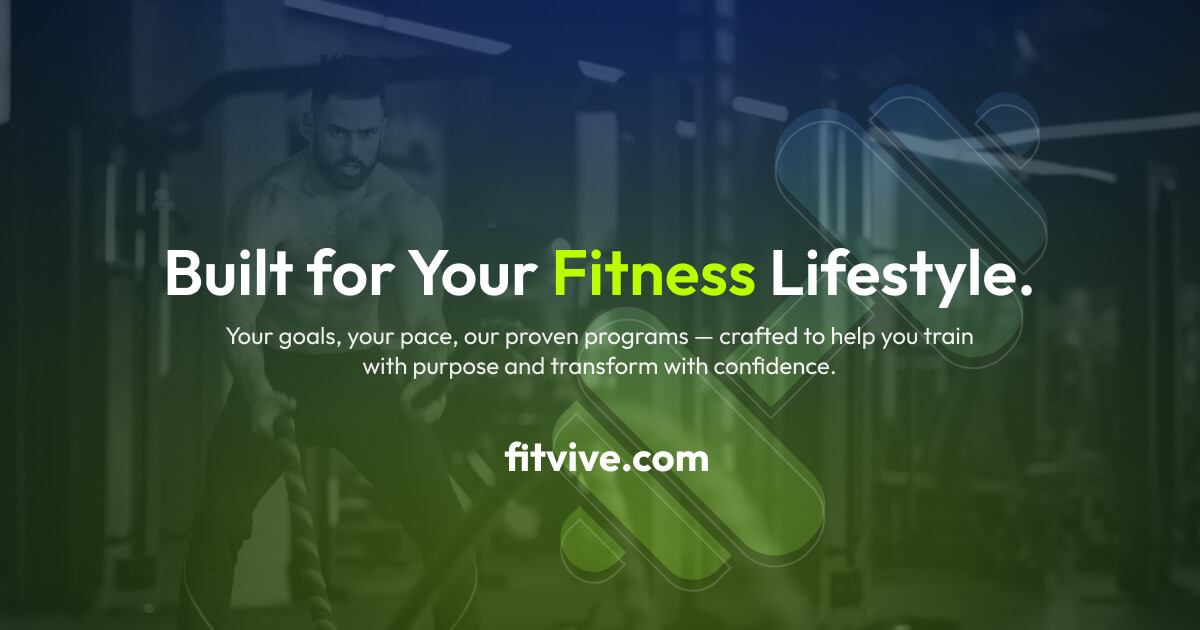
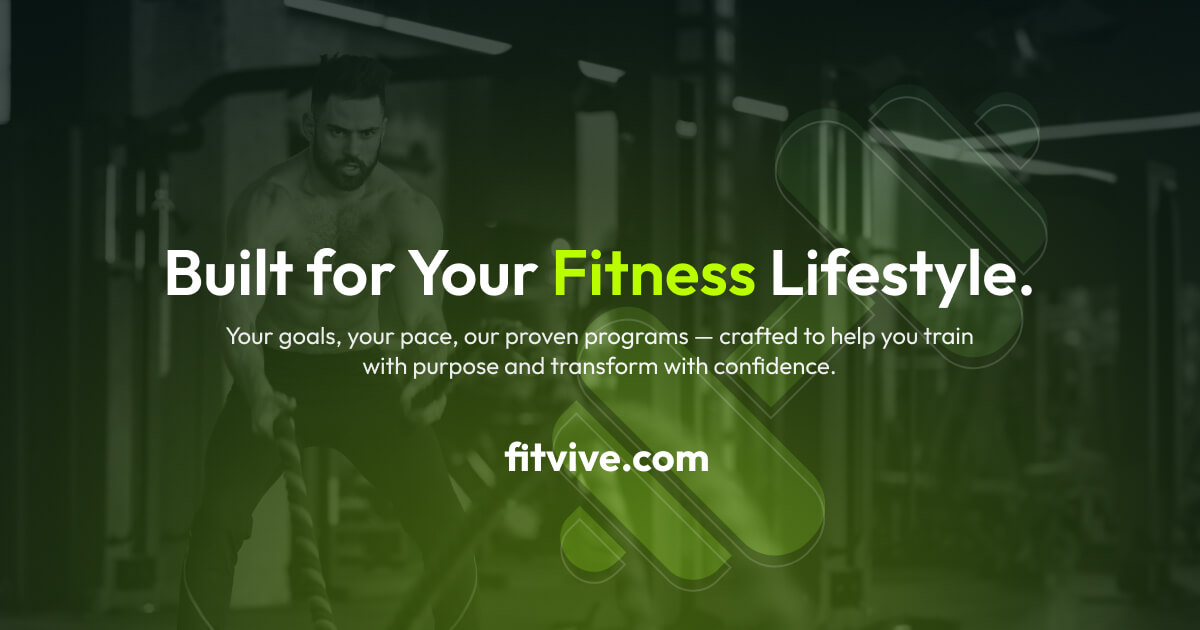
feature: header block - component

diff --git a/nextjs/src/components/main/breadcrumbs-component.tsx b/nextjs/src/components/main/breadcrumbs-component.tsx
@@ -1,0 +1,39 @@
+import { FC, Fragment } from 'react';
+
+import ChipComponent from '@/components/main/chip-component';
+import BreadcrumbsHomeChipComponent from '@/components/parts/breadcrumbs-home-chip-component';
+import BreadcrumbsSeparatorComponent from '@/components/parts/breadcrumbs-separator-componen';
+import { BreadcrumbsComponentProps } from '@/types/props/breadcrumbs-props';
+import { cn } from '@/utils/cn-util';
+import { isLastItem } from '@/utils/is-last-item-util';
+
+import '@/scss/breadcrumbs-component.scss';
+
+const BreadcrumbsComponent: FC<BreadcrumbsComponentProps> = ({
+  className, items, testId
+}) => items.length > 0 && (
+  <div className={cn('breadcrumbs', { additionalClassNames: className })} data-testid={testId}>
+    <BreadcrumbsHomeChipComponent />
+    <BreadcrumbsSeparatorComponent />
+    {
+      items.map(({ content, href }, index) => {
+        const isLast = isLastItem({ index, length: items.length });
+
+        return (
+          <Fragment key={`BreadcrumbsComponent-ChipComponent-${content}-${index}`}>
+            <ChipComponent
+              className={cn('breadcrumbs', { element: 'item' })}
+              color={isLast ? 'default' : 'disabled'}
+              content={content}
+              href={href}
+              size='small'
+            />
+            {!isLast && <BreadcrumbsSeparatorComponent />}
+          </Fragment>
+        );
+      })
+    }
+  </div>
+);
+
+export default BreadcrumbsComponent;

diff --git a/nextjs/src/components/blocks/header-block-component.tsx b/nextjs/src/components/blocks/header-block-component.tsx
@@ -1,0 +1,28 @@
+import { FC } from 'react';
+
+import TypographyComponent from '../main/typography-component';
+
+import BreadcrumbsComponent from '@/components/main/breadcrumbs-component';
+import ContainerComponent from '@/components/main/container-component';
+import { HeaderBlockComponentProps } from '@/types/props/header-block-props';
+import { cn } from '@/utils/cn-util';
+import '@/scss/header-block-component.scss';
+
+const HeaderBlockComponent: FC<HeaderBlockComponentProps> = ({
+  pageTitle
+}) => (
+  <section className={cn('headerBlock')}>
+    <ContainerComponent className={cn('headerBlock', { element: 'container' })}>
+      <TypographyComponent
+        className={cn('headerBlock', { element: 'title' })}
+        variant='h4'
+        weight='semi'
+      >
+        {pageTitle}
+      </TypographyComponent>
+      <BreadcrumbsComponent items={[{ content: pageTitle }]} />
+    </ContainerComponent>
+  </section>
+);
+
+export default HeaderBlockComponent;

diff --git a/nextjs/src/components/main/chip-component.tsx b/nextjs/src/components/main/chip-component.tsx
@@ -1,0 +1,40 @@
+import { FC } from 'react';
+
+import TypographyComponent from '@/components/main/typography-component';
+import { ChipComponentProps } from '@/types/props/chip-props';
+import { cn } from '@/utils/cn-util';
+
+import '@/scss/chip-component.scss';
+
+const ChipComponent: FC<ChipComponentProps> = ({
+  className, color = 'default', content, href, size = 'large', testId
+}) => {
+  const Component = href ? 'a' : 'div';
+
+  return (
+    <Component
+      className={cn('chip', {
+        additionalClassNames: className,
+        modifiers: {
+          color,
+          link: !!href,
+          size
+        }
+      })}
+      data-testid={testId}
+      {...href && ({
+        href
+      })}
+    >
+      <TypographyComponent
+        className={cn('chip', { element: 'label' })}
+        component="span"
+        weight='medium'
+      >
+        {content}
+      </TypographyComponent>
+    </Component>
+  );
+};
+
+export default ChipComponent;

diff --git a/nextjs/src/components/icons/24x24/home-icon-component.tsx b/nextjs/src/components/icons/24x24/home-icon-component.tsx
@@ -1,0 +1,21 @@
+import { FC } from 'react';
+
+import BaseIconComponent from '@/components/icons/base-icon-component';
+import { BaseIconComponentProps } from '@/types/props/common-props';
+
+const HomeIconComponent: FC<BaseIconComponentProps> = ({
+  className, fill = 'currentColor', height, width
+}) => (
+  <BaseIconComponent
+    className={className}
+    height={height}
+    width={width}
+  >
+    <path
+      d="M3 13h1v7c0 1.1.9 2 2 2h12c1.1 0 2-.9 2-2v-7h1c.4 0 .77-.24.92-.62.15-.37.07-.8-.22-1.09l-8.99-9a.996.996 0 0 0-1.41 0l-9.01 9c-.29.29-.37.72-.22 1.09s.52.62.92.62Zm7 7v-5h4v5zm2-15.59 6 6V20h-2v-5c0-1.1-.9-2-2-2h-4c-1.1 0-2 .9-2 2v5H6v-9.59z"
+      fill={fill}
+    />
+  </BaseIconComponent>
+);
+
+export default HomeIconComponent;

diff --git a/nextjs/src/components/parts/breadcrumbs-home-chip-component.tsx b/nextjs/src/components/parts/breadcrumbs-home-chip-component.tsx
@@ -1,0 +1,25 @@
+import HomeIconComponent from '@/components/icons/24x24/home-icon-component';
+import ChipComponent from '@/components/main/chip-component';
+import { ROUTE } from '@/constants/routing-constants';
+import { cn } from '@/utils/cn-util';
+
+const BREADCRUMBS_VARIABLE = {
+  ICON_SIZE: 20
+};
+
+const BreadcrumbsHomeChipComponent = () => (
+  <ChipComponent
+    className={cn('breadcrumbs', { element: 'item' })}
+    color='disabled'
+    content={(
+      <HomeIconComponent
+        height={BREADCRUMBS_VARIABLE.ICON_SIZE}
+        width={BREADCRUMBS_VARIABLE.ICON_SIZE}
+      />
+    )}
+    href={ROUTE.HOME}
+    size='small'
+  />
+);
+
+export default BreadcrumbsHomeChipComponent;

diff --git a/nextjs/src/app/(frontend)/(primary)/[[...pages]]/page.tsx b/nextjs/src/app/(frontend)/(primary)/[[...pages]]/page.tsx
@@ -1,3 +1,4 @@
+import HeaderBlockComponent from '@/components/blocks/header-block-component';
 import { ASSET } from '@/constants/assets-constants';
 import { getPageBySlug } from '@/services/get/get-page-by-slug';
 import { CatchAllDynamicPageProps } from '@/types/props/common-props';
@@ -26,9 +27,7 @@ const PageWithPrimaryLayout = async ({ params }: CatchAllDynamicPageProps) => {
   const page = await getPageBySlug({ params });
 
   return !page ? <div>Not found</div> : (
-    <div style={{ height: 3000, background: 'transparent' }}>
-      sdasd
-    </div>
+    <HeaderBlockComponent pageTitle={page.pageTitle} />
   );
 };
 

diff --git a/nextjs/src/scss/chip-component.scss b/nextjs/src/scss/chip-component.scss
@@ -1,0 +1,30 @@
+@use 'utils/color-util.scss' as * ;
+@use 'utils/spacing-util.scss' as *;
+
+.DgnChip {
+  border-radius: spacing(2);
+  color: color("neutral", 50);
+  display: inline-block;
+  max-width: fit-content;
+  transition: color .25s ease-out;
+
+  &__label {
+    color: inherit;
+  }
+
+  &--colorDefault {
+    background: color("neutral", 800, 0.7);
+  }
+
+  &--colorDisabled {
+    color: color("neutral", 400);
+
+    &.DgnChip--link:hover {
+      color: color("primary", 500);
+    }
+  }
+
+  &--sizeSmall {
+    padding: spacing(0.5) spacing(1.5);
+  }
+}

diff --git a/nextjs/src/types/props/typography-props.ts b/nextjs/src/types/props/typography-props.ts
@@ -1,10 +1,12 @@
+import { ReactNode } from 'react';
+
 import { LinkType } from '@/types/common-types';
 import { BaseComponentProps } from '@/types/props/common-props';
 
 export type TypographyComponentType = 'a' | 'h1' | 'h2' | 'h3' | 'h4' | 'h5' | 'h6' | 'p' | 'span';
 
 export interface TypographyComponentProps extends BaseComponentProps {
-  children: string;
+  children: ReactNode;
   color?: 'primary' | 'secondary';
   component?: Omit<TypographyComponentType, 'a'>;
   linkProps?: Omit<LinkType, 'name'>;

diff --git a/nextjs/src/scss/header-component.scss b/nextjs/src/scss/header-component.scss
@@ -3,16 +3,17 @@
 
 .DgnHeader {
   left: 0;
-  padding-inline: spacing(2.5);
+  padding: spacing(2.5);
   position: fixed;
-  top: spacing(3);
+  top: spacing(0);
   width: -webkit-fill-available;
   z-index: 1400;
 
   &__container {
     backdrop-filter: blur(spacing(2));
-    background-color: color("neutral", 50, 0.16);
+    background: color("neutral", 50, 0.16);
     border-radius: spacing(3.5);
+    box-sizing: border-box;
     padding: spacing(2);
   }
 }

diff --git a/nextjs/src/app/(frontend)/(primary)/layout.tsx b/nextjs/src/app/(frontend)/(primary)/layout.tsx
@@ -1,13 +1,14 @@
 import { FC, PropsWithChildren } from 'react';
 
 import HeaderComponent from '@/components/main/header-component';
+import MainComponent from '@/components/main/main-component';
 
 const DefaultLayout: FC<PropsWithChildren> = ({ children }) => (
   <>
     <HeaderComponent />
-    <main>
+    <MainComponent>
       {children}
-    </main>
+    </MainComponent>
     <footer>Footer</footer>
   </>
 );

diff --git a/nextjs/src/components/main/logo-component.tsx b/nextjs/src/components/main/logo-component.tsx
@@ -1,6 +1,6 @@
 import { FC } from 'react';
 
-import DumbbellsIconComponent from '@/components/icons/24x24/dumbbells-icon';
+import DumbbellsIconComponent from '@/components/icons/24x24/dumbbells-icon-component';
 import TypographyComponent from '@/components/main/typography-component';
 import { COMPANY_NAME } from '@/constants/common-constants';
 import { LogoComponentProps } from '@/types/props/logo-props';

diff --git a/nextjs/src/components/main/header-component.tsx b/nextjs/src/components/main/header-component.tsx
@@ -6,7 +6,7 @@ import '@/scss/header-component.scss';
 
 const HeaderComponent = () => (
   <header className={cn('header')}>
-    <ContainerComponent className={cn('header', { element: 'container' })} withPadding={false}>
+    <ContainerComponent className={cn('header', { element: 'container' })}>
       <LogoComponent linkProps={{ href: ROUTE.HOME }} />
     </ContainerComponent>
   </header>
